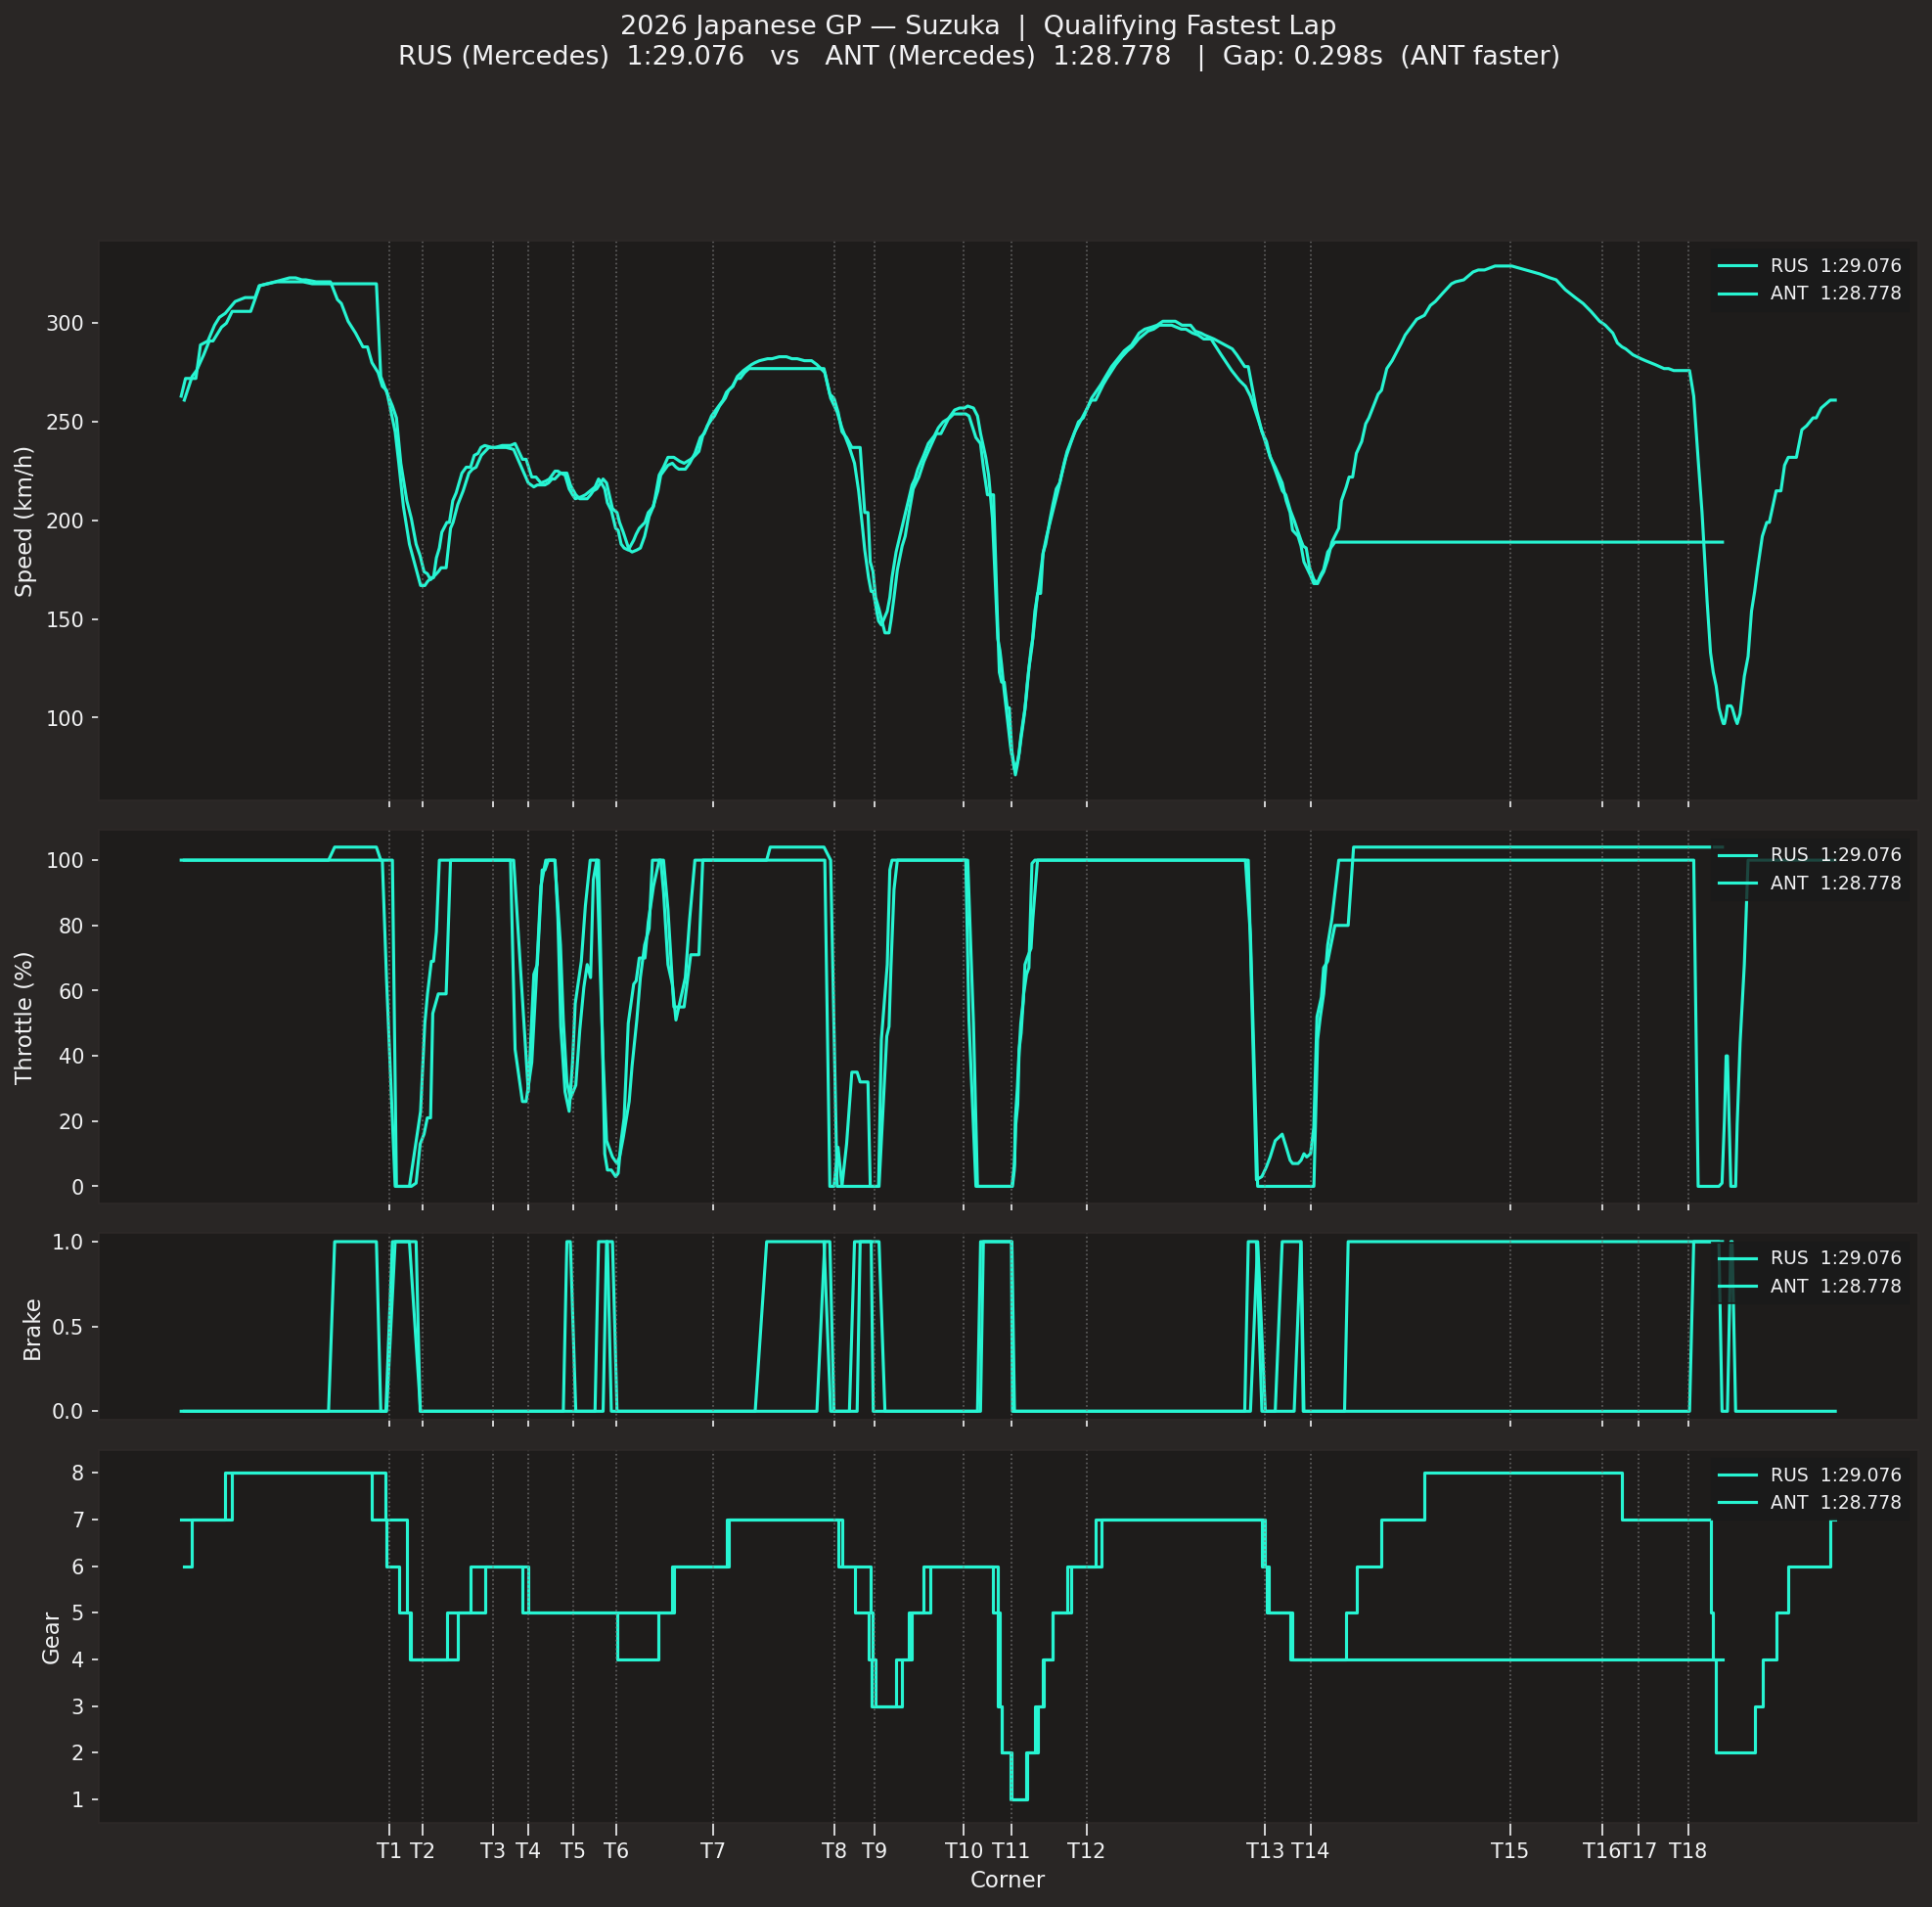
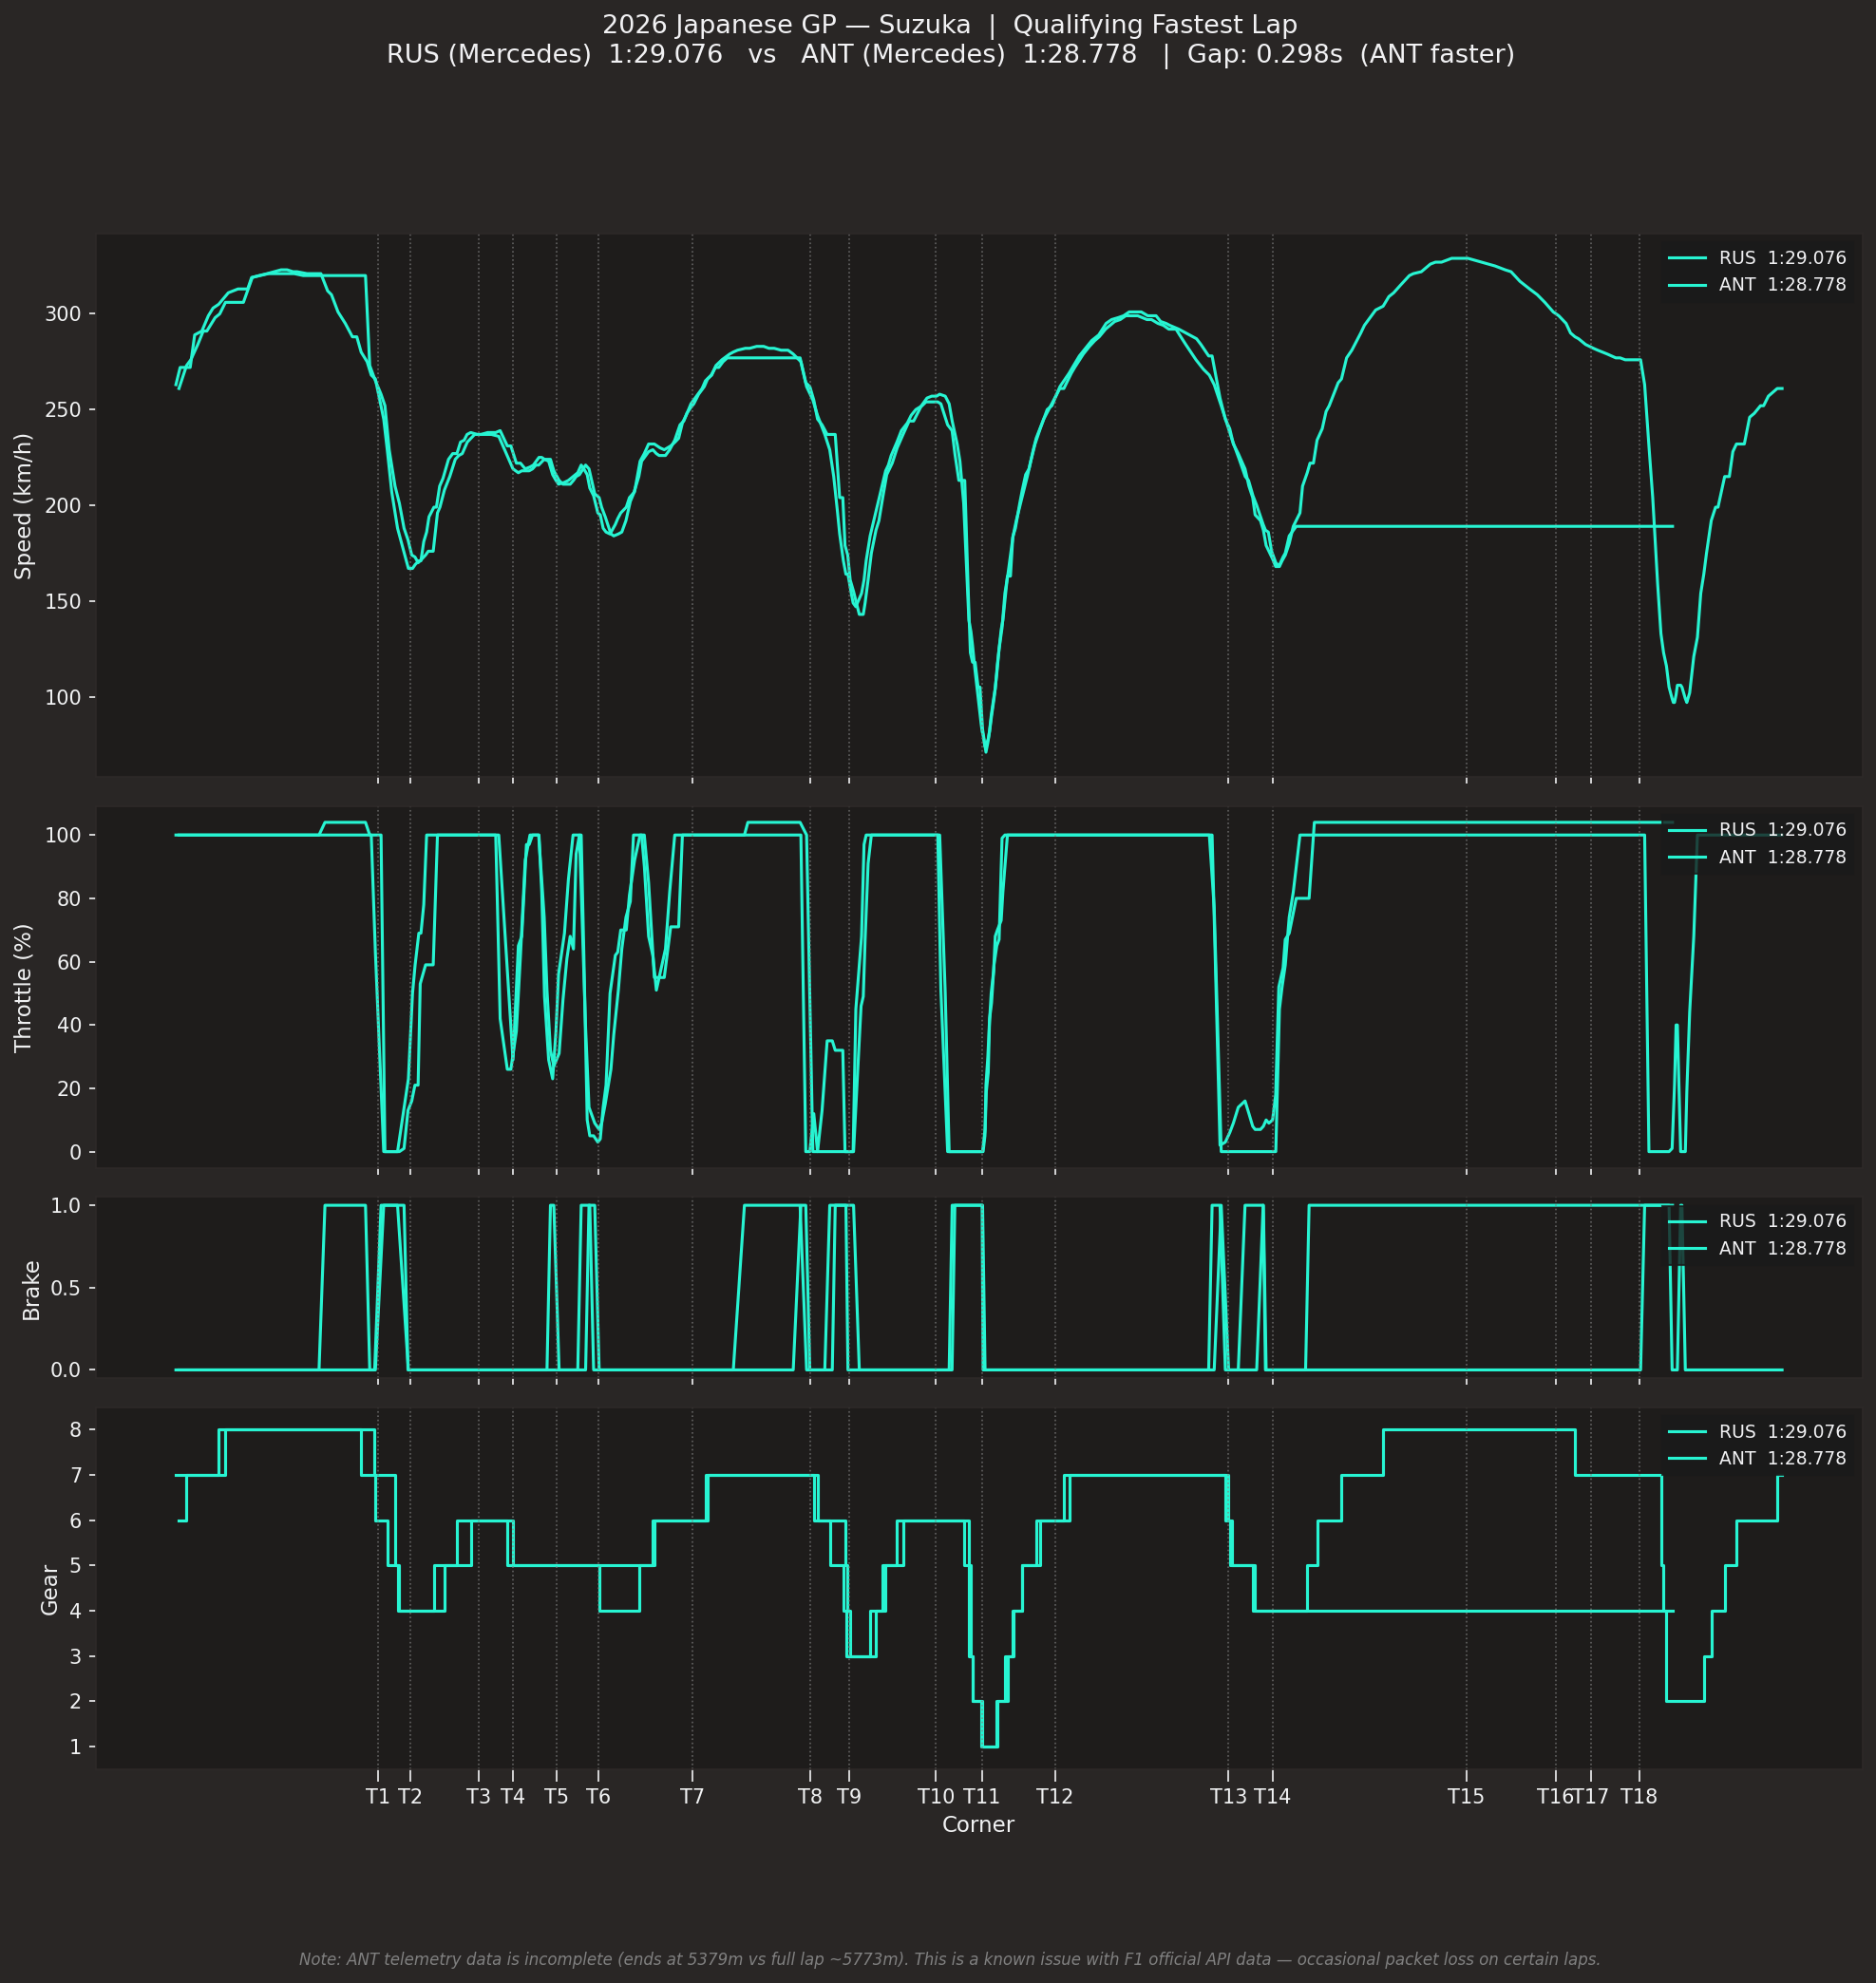
test: Suzuka 2026遥测对比测试脚本
- Albon vs Alonso 遥测对比分析
- Russell vs Antonelli 遥测对比分析
- 对比结果截图更新

diff --git a/suzuka_2026_albon_vs_alonso.py b/suzuka_2026_albon_vs_alonso.py
@@ -1,85 +1,112 @@
 """
-2026 日本大奖赛（铃鹿）- 阿尔本 vs 阿隆索 遥测数据对比
-Williams ALB vs Aston Martin ALO - Suzuka 2026
+2026 Japanese GP (Suzuka) - ALB (Williams) vs ALO (Aston Martin)
+Qualifying fastest lap telemetry comparison
 """
 
+import os
+import matplotlib
+matplotlib.use('Agg')
 import matplotlib.pyplot as plt
+import matplotlib.ticker as ticker
 import numpy as np
 
 import fastf1
 import fastf1.plotting
 
 fastf1.plotting.setup_mpl(mpl_timedelta_support=True, color_scheme='fastf1')
-fastf1.Cache.enable_cache('cache')
 
-# 加载 2026 日本大奖赛排位赛
+os.makedirs('/Users/aijian/Downloads/Fast-F1/cache', exist_ok=True)
+fastf1.Cache.enable_cache('/Users/aijian/Downloads/Fast-F1/cache')
+
 session = fastf1.get_session(2026, 'Japanese Grand Prix', 'Q')
 session.load()
 
-# 获取最快圈
 alb_lap = session.laps.pick_drivers('ALB').pick_fastest()
 alo_lap = session.laps.pick_drivers('ALO').pick_fastest()
 
-# 获取遥测数据并添加距离列
 alb_tel = alb_lap.get_car_data().add_distance()
 alo_tel = alo_lap.get_car_data().add_distance()
 
-# 获取赛道角落信息
 circuit_info = session.get_circuit_info()
 
-# 获取车队颜色
 alb_color = fastf1.plotting.get_driver_color('ALB', session=session)
 alo_color = fastf1.plotting.get_driver_color('ALO', session=session)
 
-# 创建多子图布局：速度、油门、刹车、档位
-fig, axes = plt.subplots(4, 1, figsize=(14, 12), sharex=True)
+def fmt_time(td):
+    total = int(td.total_seconds())
+    ms = int(td.total_seconds() * 1000) % 1000
+    m, s = divmod(total, 60)
+    return f"{m}:{s:02d}.{ms:03d}"
+
+alb_time = fmt_time(alb_lap['LapTime'])
+alo_time = fmt_time(alo_lap['LapTime'])
+delta_s = (alb_lap['LapTime'] - alo_lap['LapTime']).total_seconds()
+faster = 'ALB' if delta_s < 0 else 'ALO'
+delta_str = f"{abs(delta_s):.3f}s  ({faster} faster)"
+
+# 弯角距离：如果 circuit_info 有数据就用，否则按遥测总距离等分
+total_dist = alb_tel['Distance'].max()
+n_corners = len(circuit_info.corners)
+
+corner_distances = circuit_info.corners['Distance'].values
+if np.isnan(corner_distances).all():
+    # fallback: 等间距分布
+    corner_distances = np.linspace(0, total_dist, n_corners + 1)[1:]
+
+corner_labels = [
+    f"T{int(r['Number'])}{r['Letter']}"
+    for _, r in circuit_info.corners.iterrows()
+]
+
+# ── Layout ────────────────────────────────────────────────────────────────────
+fig, axes = plt.subplots(4, 1, figsize=(16, 14), sharex=True,
+                         gridspec_kw={'height_ratios': [3, 2, 1, 2], 'hspace': 0.08})
+
 fig.suptitle(
-    f"2026 日本大奖赛（铃鹿）排位赛 - 最快圈对比\n"
-    f"ALB (Williams) vs ALO (Aston Martin)",
-    fontsize=14, y=0.98
+    f"2026 Japanese GP — Suzuka  |  Qualifying Fastest Lap\n"
+    f"ALB (Williams)  {alb_time}   vs   ALO (Aston Martin)  {alo_time}   |  Gap: {delta_str}",
+    fontsize=13, y=0.99
 )
 
-# 各子图数据
 channels = [
-    ('Speed',    'Speed (km/h)',    False),
-    ('Throttle', 'Throttle (%)',    False),
-    ('Brake',    'Brake',           False),
-    ('nGear',    'Gear',            True),
+    ('Speed',    'Speed (km/h)', False),
+    ('Throttle', 'Throttle (%)', False),
+    ('Brake',    'Brake',        False),
+    ('nGear',    'Gear',         True),
 ]
 
 for ax, (channel, ylabel, is_step) in zip(axes, channels):
     if is_step:
-        ax.step(alb_tel['Distance'], alb_tel[channel], color=alb_color, label='ALB', where='post')
-        ax.step(alo_tel['Distance'], alo_tel[channel], color=alo_color, label='ALO', where='post')
+        ax.step(alb_tel['Distance'], alb_tel[channel],
+                color=alb_color, label=f"ALB  {alb_time}", where='post', linewidth=1.5)
+        ax.step(alo_tel['Distance'], alo_tel[channel],
+                color=alo_color, label=f"ALO  {alo_time}", where='post', linewidth=1.5)
     else:
-        ax.plot(alb_tel['Distance'], alb_tel[channel], color=alb_color, label='ALB')
-        ax.plot(alo_tel['Distance'], alo_tel[channel], color=alo_color, label='ALO')
+        ax.plot(alb_tel['Distance'], alb_tel[channel],
+                color=alb_color, label=f"ALB  {alb_time}", linewidth=1.5)
+        ax.plot(alo_tel['Distance'], alo_tel[channel],
+                color=alo_color, label=f"ALO  {alo_time}", linewidth=1.5)
 
-    ax.set_ylabel(ylabel)
-    ax.legend(loc='upper right')
+    ax.set_ylabel(ylabel, fontsize=11)
+    ax.legend(loc='upper right', fontsize=9)
+    ax.tick_params(axis='y', labelsize=10)
 
-    # 添加角落标注
-    v_min = ax.get_ylim()[0]
-    v_max = ax.get_ylim()[1]
-    ax.vlines(
-        x=circuit_info.corners['Distance'],
-        ymin=v_min, ymax=v_max,
-        linestyles='dotted', colors='grey', alpha=0.5, linewidth=0.8
-    )
+    # 弯角虚线
+    for d in corner_distances:
+        ax.axvline(d, color='grey', linestyle=':', linewidth=0.8, alpha=0.7)
 
-# 在最下方子图添加角落编号
+# Gear: integer ticks only
+axes[3].yaxis.set_major_locator(ticker.MultipleLocator(1))
+axes[3].set_ylim([0.5, 8.5])
+
+# ── X-axis: corner labels ─────────────────────────────────────────────────────
 ax_bottom = axes[-1]
-v_min, v_max = ax_bottom.get_ylim()
-for _, corner in circuit_info.corners.iterrows():
-    txt = f"{corner['Number']}{corner['Letter']}"
-    ax_bottom.text(
-        corner['Distance'], v_min - 0.5, txt,
-        va='top', ha='center', size='x-small', color='grey'
-    )
+ax_bottom.set_xticks(corner_distances)
+ax_bottom.set_xticklabels(corner_labels, fontsize=10, rotation=0, ha='center')
+ax_bottom.set_xlabel('Corner', fontsize=11)
+ax_bottom.tick_params(axis='x', which='both', length=6, labelsize=10)
 
-axes[-1].set_xlabel('Distance (m)')
-
-plt.tight_layout()
-plt.savefig('suzuka_2026_alb_vs_alo.png', dpi=150, bbox_inches='tight')
-plt.show()
-print("图表已保存为 suzuka_2026_alb_vs_alo.png")
+plt.savefig('/Users/aijian/Downloads/Fast-F1/suzuka_2026_alb_vs_alo.png',
+            dpi=150, bbox_inches='tight')
+plt.close()
+print("Saved: suzuka_2026_alb_vs_alo.png")

diff --git a/suzuka_2026_russell_vs_antonelli.py b/suzuka_2026_russell_vs_antonelli.py
@@ -33,6 +33,8 @@ rus_color = fastf1.plotting.get_driver_color('RUS', session=session)
 ant_color = fastf1.plotting.get_driver_color('ANT', session=session)
 
 def fmt_time(td):
+    if hasattr(td, 'iloc'):
+        td = td.iloc[0]
     total = int(td.total_seconds())
     ms = int(td.total_seconds() * 1000) % 1000
     m, s = divmod(total, 60)
@@ -40,13 +42,20 @@ def fmt_time(td):
 
 rus_time = fmt_time(rus_lap['LapTime'])
 ant_time = fmt_time(ant_lap['LapTime'])
-delta_s = (rus_lap['LapTime'] - ant_lap['LapTime']).total_seconds()
+
+rus_td = rus_lap['LapTime']
+ant_td = ant_lap['LapTime']
+if hasattr(rus_td, 'iloc'):
+    rus_td = rus_td.iloc[0]
+if hasattr(ant_td, 'iloc'):
+    ant_td = ant_td.iloc[0]
+delta_s = (rus_td - ant_td).total_seconds()
 faster = 'RUS' if delta_s < 0 else 'ANT'
 delta_str = f"{abs(delta_s):.3f}s  ({faster} faster)"
 
+# 弯角距离
 total_dist = rus_tel['Distance'].max()
 n_corners = len(circuit_info.corners)
-
 corner_distances = circuit_info.corners['Distance'].values
 if np.isnan(corner_distances).all():
     corner_distances = np.linspace(0, total_dist, n_corners + 1)[1:]
@@ -55,6 +64,16 @@ corner_labels = [
     f"T{int(r['Number'])}{r['Letter']}"
     for _, r in circuit_info.corners.iterrows()
 ]
+
+# 检查遥测是否截断
+ant_dist_max = ant_tel['Distance'].max()
+rus_dist_max = rus_tel['Distance'].max()
+telemetry_note = None
+if ant_dist_max < rus_dist_max * 0.98:
+    telemetry_note = (
+        f"Note: ANT telemetry data is incomplete (ends at {ant_dist_max:.0f}m vs full lap ~{rus_dist_max:.0f}m). "
+        f"This is a known issue with F1 official API data — occasional packet loss on certain laps."
+    )
 
 fig, axes = plt.subplots(4, 1, figsize=(16, 14), sharex=True,
                          gridspec_kw={'height_ratios': [3, 2, 1, 2], 'hspace': 0.08})
@@ -99,6 +118,10 @@ ax_bottom.set_xticks(corner_distances)
 ax_bottom.set_xticklabels(corner_labels, fontsize=10, rotation=0, ha='center')
 ax_bottom.set_xlabel('Corner', fontsize=11)
 ax_bottom.tick_params(axis='x', which='both', length=6, labelsize=10)
+
+if telemetry_note:
+    fig.text(0.5, 0.01, telemetry_note, ha='center', va='bottom',
+             fontsize=8, color='grey', style='italic', wrap=True)
 
 plt.savefig('/Users/aijian/Downloads/Fast-F1/suzuka_2026_rus_vs_ant.png',
             dpi=150, bbox_inches='tight')